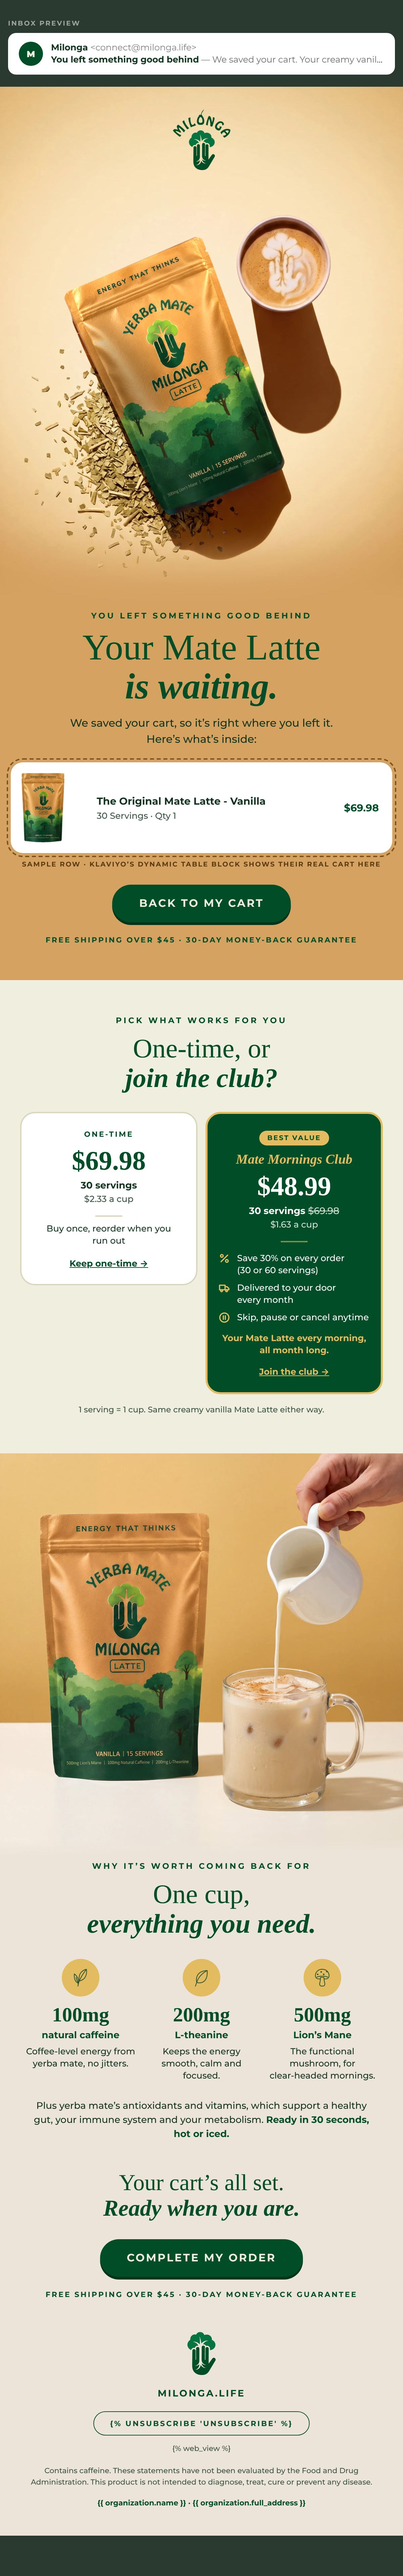
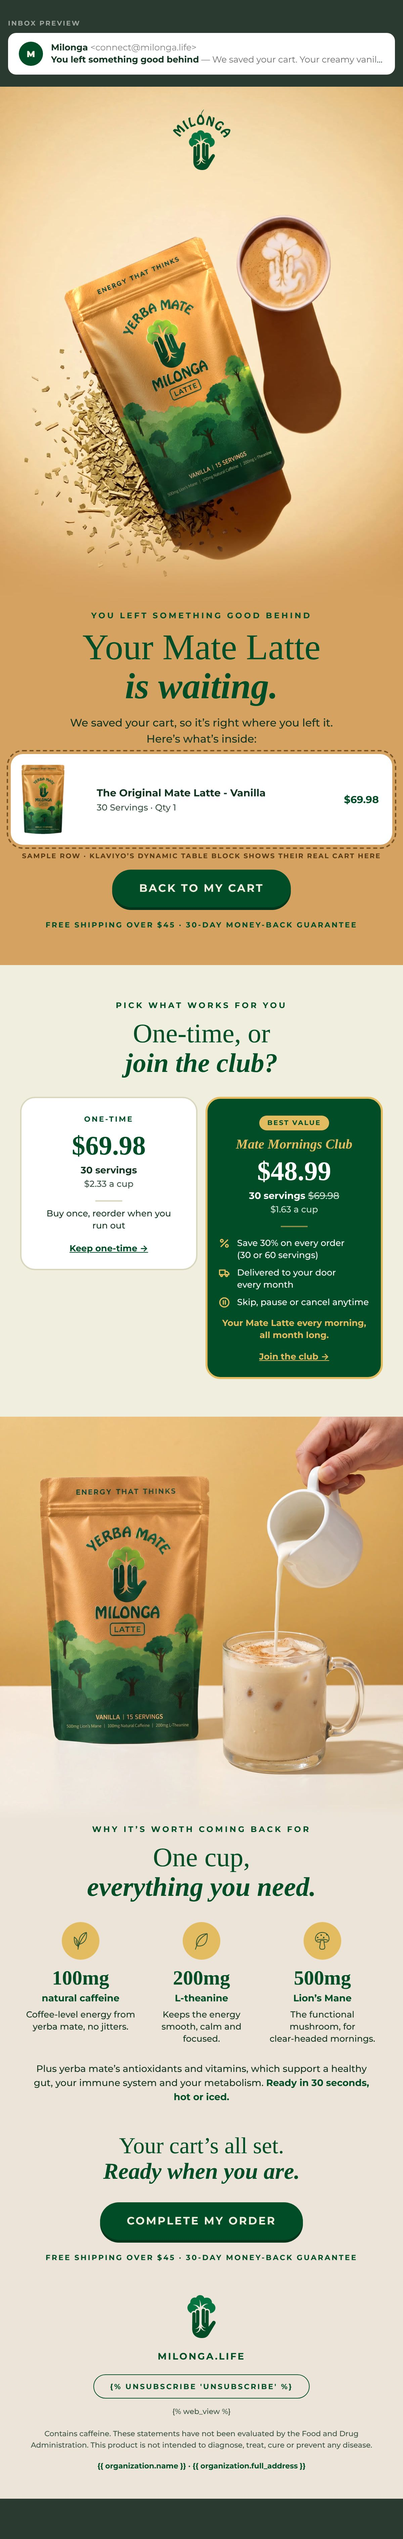
Cart E1: drop the serving footnote, tighten the hero text-to-button gap
Claude-Session: https://claude.ai/code/session_01NhEtXPnfeCJfN73SqBkUZ5

diff --git a/email-ds/refine/cart-e1.html b/email-ds/refine/cart-e1.html
@@ -64,7 +64,7 @@ body{margin:0;background:#2B3A31;padding:28px 0 60px}
      its top and bottom fade into the flat golds of the rows around it, and the
      same gold carries on under Klaviyo's cart block and the button) ── -->
 <tr><td class="bg-hero-top" bgcolor="#E8C58D" style="background-color:#E8C58D;padding:0;font-size:0;line-height:0;"><a href="{{ event.extra.checkout_url|default:'https://milonga.life/cart' }}" target="_blank"><img class="full" src="../exports/klaviyo/cart-e1/img/hero.jpg" width="600" height="773" alt="Milonga. The Mate Latte pouch beside a latte, with loose yerba mate on a golden table" style="display:block;width:600px;height:773px;border:0;"></a></td></tr>
-<tr><td class="pad bg-hero" align="center" bgcolor="#D5A262" style="background-color:#D5A262;padding:6px 40px 22px;font-family:'Montserrat','Helvetica Neue',Helvetica,Arial,sans-serif;">
+<tr><td class="pad bg-hero" align="center" bgcolor="#D5A262" style="background-color:#D5A262;padding:6px 40px 10px;font-family:'Montserrat','Helvetica Neue',Helvetica,Arial,sans-serif;">
 <div style="font-size:12px;line-height:16px;font-weight:700;letter-spacing:3px;text-transform:uppercase;color:#004D27;">You left something good behind</div>
 <div class="h-hero" style="padding-top:10px;font-family:'Times New Roman',Times,Georgia,serif;font-size:54px;line-height:58px;font-weight:400;color:#004D27;">Your Mate Latte</div>
 <div class="h-hero" style="font-family:'Times New Roman',Times,Georgia,serif;font-size:54px;line-height:58px;font-weight:700;font-style:italic;color:#004D27;">is waiting.</div>
@@ -128,7 +128,7 @@ body{margin:0;background:#2B3A31;padding:28px 0 60px}
 <table role="presentation" class="wrap" width="600" cellpadding="0" cellspacing="0" border="0" style="width:600px;max-width:600px;">
 
 <!-- ── 1 (continued) · the button, on the same gold as the cart above ── -->
-<tr><td class="pad bg-hero" align="center" bgcolor="#D5A262" style="background-color:#D5A262;padding:24px 40px 52px;font-family:'Montserrat','Helvetica Neue',Helvetica,Arial,sans-serif;">
+<tr><td class="pad bg-hero" align="center" bgcolor="#D5A262" style="background-color:#D5A262;padding:14px 40px 52px;font-family:'Montserrat','Helvetica Neue',Helvetica,Arial,sans-serif;">
 <!--[if mso]>
 <v:roundrect xmlns:v="urn:schemas-microsoft-com:vml" xmlns:w="urn:schemas-microsoft-com:office:word" href="{{ event.extra.checkout_url|default:'https://milonga.life/cart' }}" style="height:56px;v-text-anchor:middle;width:290px;" arcsize="50%" stroke="f" fillcolor="#004D27"><w:anchorlock/><center style="color:#F0EFDF;font-family:Arial,sans-serif;font-size:16px;font-weight:bold;letter-spacing:2px;">Back to my cart</center></v:roundrect>
 <![endif]--><!--[if !mso]><!-- --><a href="{{ event.extra.checkout_url|default:'https://milonga.life/cart' }}" target="_blank" class="btn" style="display:inline-block;background-color:#004D27;border-radius:999px;padding:20px 40px;font-family:'Montserrat','Helvetica Neue',Helvetica,Arial,sans-serif;font-size:16px;line-height:16px;font-weight:700;letter-spacing:2px;text-transform:uppercase;white-space:nowrap;color:#F0EFDF;text-decoration:none;box-shadow:0 4px 0 #00351B;">Back to my cart</a><!--<![endif]-->
@@ -141,7 +141,7 @@ body{margin:0;background:#2B3A31;padding:28px 0 60px}
 <div class="h-sec" style="padding-top:12px;font-family:'Times New Roman',Times,Georgia,serif;font-size:40px;line-height:44px;font-weight:400;color:#004D27;">One-time, or</div>
 <div class="h-sec" style="font-family:'Times New Roman',Times,Georgia,serif;font-size:40px;line-height:44px;font-weight:700;font-style:italic;color:#004D27;">join the club?</div>
 </td></tr>
-<tr><td class="pad-photo bg-page" bgcolor="#F0EFDF" style="background-color:#F0EFDF;padding:28px 30px 0;">
+<tr><td class="pad-photo bg-page" bgcolor="#F0EFDF" style="background-color:#F0EFDF;padding:28px 30px 56px;">
 <table role="presentation" width="100%" cellpadding="0" cellspacing="0" border="0" style="border-collapse:separate;"><tr>
 <td class="cmp-l" width="50%" valign="top" style="width:50%;padding:0 6px 0 0;">
 <table role="presentation" width="100%" cellpadding="0" cellspacing="0" border="0" style="border-collapse:separate;"><tr>
@@ -177,9 +177,6 @@ body{margin:0;background:#2B3A31;padding:28px 0 60px}
 </td></tr></table>
 </td>
 </tr></table>
-</td></tr>
-<tr><td class="pad bg-page" align="center" bgcolor="#F0EFDF" style="background-color:#F0EFDF;padding:14px 40px 56px;font-size:12px;line-height:18px;font-weight:500;color:#3B5344;font-family:'Montserrat','Helvetica Neue',Helvetica,Arial,sans-serif;">
-1 serving = 1 cup. Same creamy vanilla Mate Latte <span style="white-space:nowrap;">either way.</span>
 </td></tr>
 
 <!-- ── 3 · ONE CUP, EVERYTHING YOU NEED (the pour photo; the title and the

diff --git a/email-ds/exports/klaviyo/cart-e1/cart-e1-bottom.html b/email-ds/exports/klaviyo/cart-e1/cart-e1-bottom.html
@@ -43,7 +43,7 @@
 <table role="presentation" class="wrap" width="600" cellpadding="0" cellspacing="0" border="0" style="width:600px;max-width:600px;">
 
 <!-- ── 1 (continued) · the button, on the same gold as the cart above ── -->
-<tr><td class="pad bg-hero" align="center" bgcolor="#D5A262" style="background-color:#D5A262;padding:24px 40px 52px;font-family:'Montserrat','Helvetica Neue',Helvetica,Arial,sans-serif;">
+<tr><td class="pad bg-hero" align="center" bgcolor="#D5A262" style="background-color:#D5A262;padding:14px 40px 52px;font-family:'Montserrat','Helvetica Neue',Helvetica,Arial,sans-serif;">
 <!--[if mso]>
 <v:roundrect xmlns:v="urn:schemas-microsoft-com:vml" xmlns:w="urn:schemas-microsoft-com:office:word" href="{{ event.extra.checkout_url|default:'https://milonga.life/cart' }}" style="height:56px;v-text-anchor:middle;width:290px;" arcsize="50%" stroke="f" fillcolor="#004D27"><w:anchorlock/><center style="color:#F0EFDF;font-family:Arial,sans-serif;font-size:16px;font-weight:bold;letter-spacing:2px;">Back to my cart</center></v:roundrect>
 <![endif]--><!--[if !mso]><!-- --><a href="{{ event.extra.checkout_url|default:'https://milonga.life/cart' }}" target="_blank" class="btn" style="display:inline-block;background-color:#004D27;border-radius:999px;padding:20px 40px;font-family:'Montserrat','Helvetica Neue',Helvetica,Arial,sans-serif;font-size:16px;line-height:16px;font-weight:700;letter-spacing:2px;text-transform:uppercase;white-space:nowrap;color:#F0EFDF;text-decoration:none;box-shadow:0 4px 0 #00351B;">Back to my cart</a><!--<![endif]-->
@@ -56,7 +56,7 @@
 <div class="h-sec" style="padding-top:12px;font-family:'Times New Roman',Times,Georgia,serif;font-size:40px;line-height:44px;font-weight:400;color:#004D27;">One-time, or</div>
 <div class="h-sec" style="font-family:'Times New Roman',Times,Georgia,serif;font-size:40px;line-height:44px;font-weight:700;font-style:italic;color:#004D27;">join the club?</div>
 </td></tr>
-<tr><td class="pad-photo bg-page" bgcolor="#F0EFDF" style="background-color:#F0EFDF;padding:28px 30px 0;">
+<tr><td class="pad-photo bg-page" bgcolor="#F0EFDF" style="background-color:#F0EFDF;padding:28px 30px 56px;">
 <table role="presentation" width="100%" cellpadding="0" cellspacing="0" border="0" style="border-collapse:separate;"><tr>
 <td class="cmp-l" width="50%" valign="top" style="width:50%;padding:0 6px 0 0;">
 <table role="presentation" width="100%" cellpadding="0" cellspacing="0" border="0" style="border-collapse:separate;"><tr>
@@ -92,9 +92,6 @@
 </td></tr></table>
 </td>
 </tr></table>
-</td></tr>
-<tr><td class="pad bg-page" align="center" bgcolor="#F0EFDF" style="background-color:#F0EFDF;padding:14px 40px 56px;font-size:12px;line-height:18px;font-weight:500;color:#3B5344;font-family:'Montserrat','Helvetica Neue',Helvetica,Arial,sans-serif;">
-1 serving = 1 cup. Same creamy vanilla Mate Latte <span style="white-space:nowrap;">either way.</span>
 </td></tr>
 
 <!-- ── 3 · ONE CUP, EVERYTHING YOU NEED (the pour photo; the title and the

diff --git a/email-ds/exports/klaviyo/cart-e1/cart-e1-top.html b/email-ds/exports/klaviyo/cart-e1/cart-e1-top.html
@@ -50,7 +50,7 @@
      its top and bottom fade into the flat golds of the rows around it, and the
      same gold carries on under Klaviyo's cart block and the button) ── -->
 <tr><td class="bg-hero-top" bgcolor="#E8C58D" style="background-color:#E8C58D;padding:0;font-size:0;line-height:0;"><a href="{{ event.extra.checkout_url|default:'https://milonga.life/cart' }}" target="_blank"><img class="full" src="https://cdn.klaviyomail.com/company/TwvSnK/images/3f6157b6-658c-4a64-b13c-51b9711deda9.jpeg" width="600" height="773" alt="Milonga. The Mate Latte pouch beside a latte, with loose yerba mate on a golden table" style="display:block;width:600px;height:773px;border:0;"></a></td></tr>
-<tr><td class="pad bg-hero" align="center" bgcolor="#D5A262" style="background-color:#D5A262;padding:6px 40px 22px;font-family:'Montserrat','Helvetica Neue',Helvetica,Arial,sans-serif;">
+<tr><td class="pad bg-hero" align="center" bgcolor="#D5A262" style="background-color:#D5A262;padding:6px 40px 10px;font-family:'Montserrat','Helvetica Neue',Helvetica,Arial,sans-serif;">
 <div style="font-size:12px;line-height:16px;font-weight:700;letter-spacing:3px;text-transform:uppercase;color:#004D27;">You left something good behind</div>
 <div class="h-hero" style="padding-top:10px;font-family:'Times New Roman',Times,Georgia,serif;font-size:54px;line-height:58px;font-weight:400;color:#004D27;">Your Mate Latte</div>
 <div class="h-hero" style="font-family:'Times New Roman',Times,Georgia,serif;font-size:54px;line-height:58px;font-weight:700;font-style:italic;color:#004D27;">is waiting.</div>
